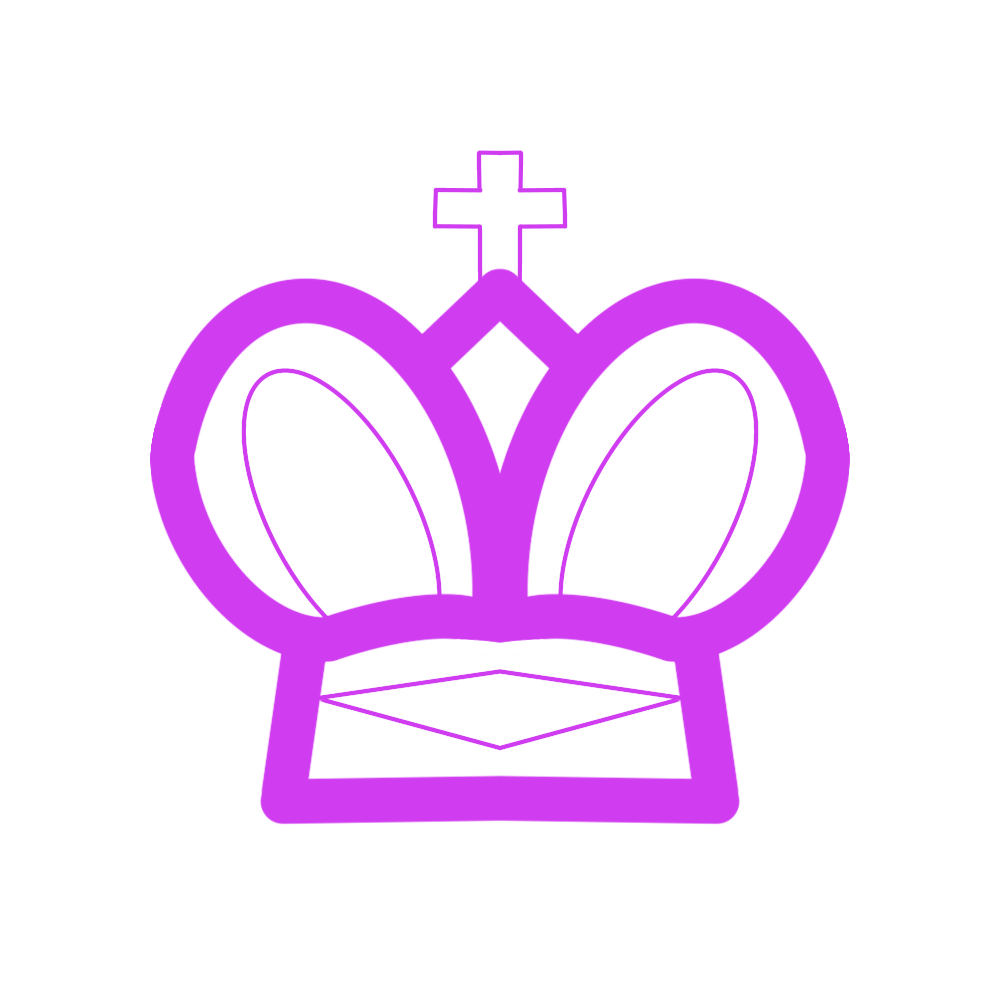
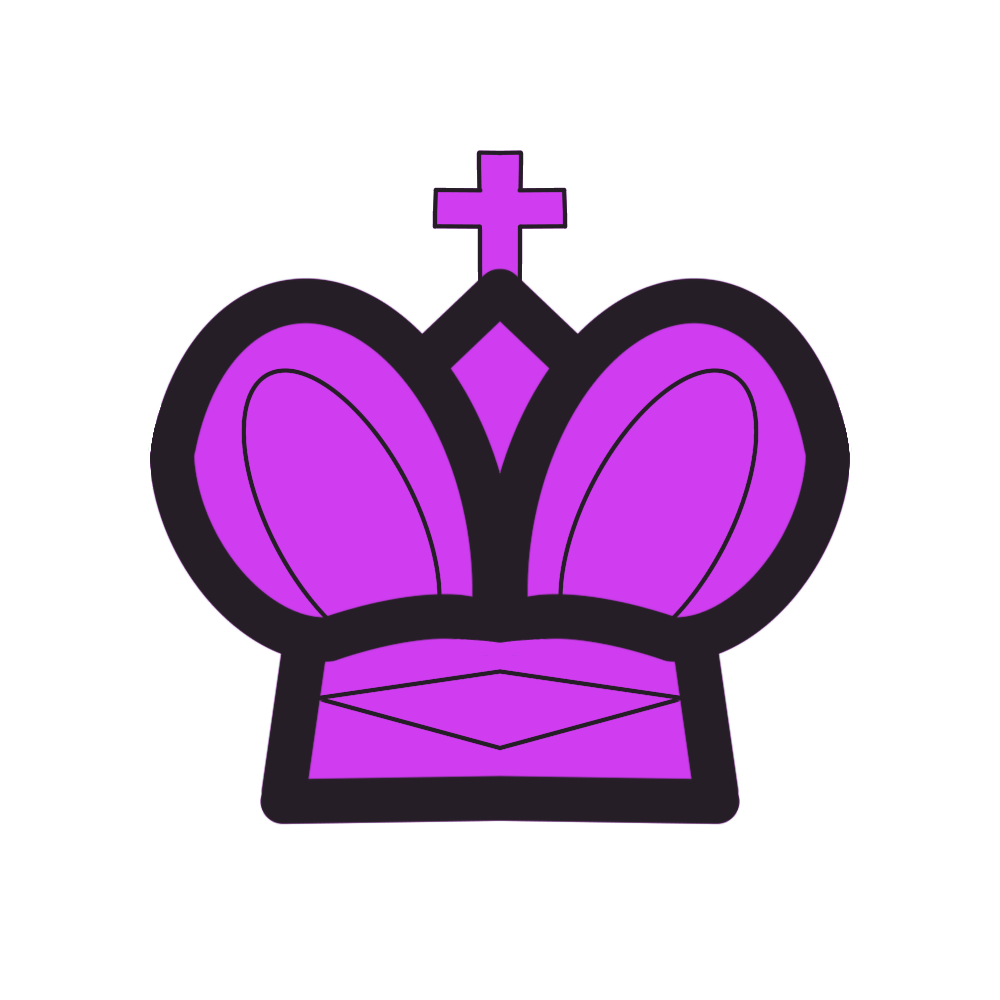
New pieces graphics

diff --git a/SpaceDuckFrontend/spaceduck/src/Views/LoginView.jsx b/SpaceDuckFrontend/spaceduck/src/Views/LoginView.jsx
@@ -101,16 +101,16 @@ class Login extends React.Component {
         else if(this.state.logged == true){
             if(cookies.get('game')=="kalambury"){
 
-                 window.location.assign('http://'+address.baseURL+':'+address.kalamburyPort);
+                 window.location.assign('http://'+window.location.hostname+':'+address.kalamburyPort);
             }
             if(cookies.get('game')=="szachy"){
-                 window.location.assign('http://'+address.baseURL+':'+address.szachyPort);
+                 window.location.assign('http://'+window.location.hostname+':'+address.szachyPort);
             }
             if(cookies.get('game')=="statki"){
-                 window.location.assign('http://'+address.baseURL+':'+address.statkiPort);
+                 window.location.assign('http://'+window.location.hostname+':'+address.statkiPort);
             }
             if(cookies.get('game')=="chinczyk"){
-                 window.location.assign('http://'+address.baseURL+':'+address.chinczykPort);
+                 window.location.assign('http://'+window.location.hostname+':'+address.chinczykPort);
             }
         }
 

diff --git a/SpaceDuckFrontend/szachy/src/components/chess-style.css b/SpaceDuckFrontend/szachy/src/components/chess-style.css
@@ -1,7 +1,7 @@
 .piece-icon {
-    margin: 10%;
-    max-width: 80%;
-    max-height: 80%;
+    margin: 2.5%;
+    max-width: 95%;
+    max-height: 95%;
 }
 
 .board-outer {
@@ -38,7 +38,7 @@
 }
 
 .dark-square {
-    background-color: rgba(0,0,0,0.0);
+    background-color: rgba(0, 0, 0, 0.0);
 }
 
 /* EFFECTS */
@@ -58,5 +58,8 @@
 }
 
 .checked {
-    background-color: rgb(255, 50, 50, 1.0);
+    background-image: url("../assets/check_effect.png");
+    background-repeat: no-repeat;
+    background-position: center center;
+    background-size: 90%;
 }
